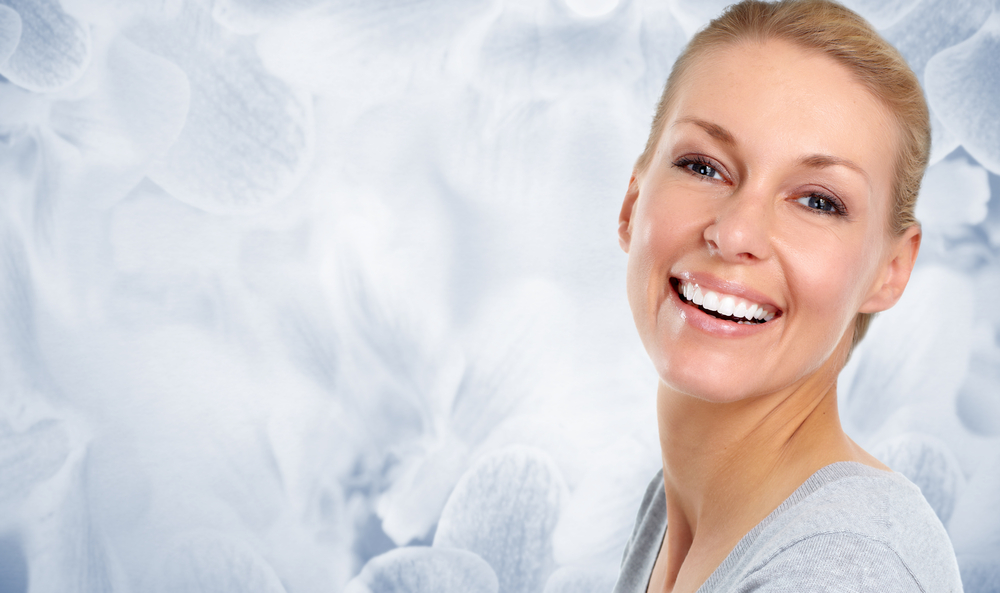
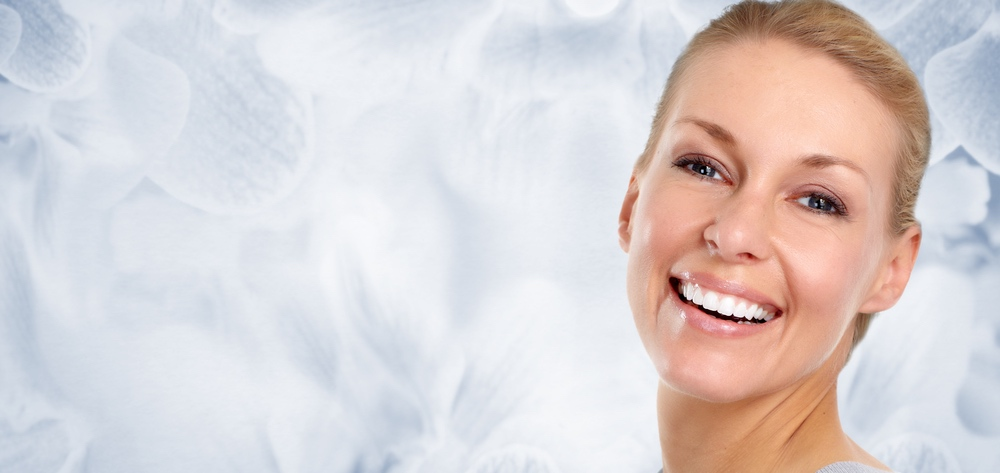
fixed framing of splash image

diff --git a/css/scrolling-nav.css b/css/scrolling-nav.css
@@ -164,11 +164,13 @@ of those sections to manage the look and feel of the site. */
 #facebook-icon {
     text-decoration: none;
 }
+.bufferspace {
+    padding: 50px;
+}
 /* intro section styling */ 
 .splash-section {
     width: 100%;
-    height: 60%;
-    margin-top: 100px;
+    height: 70%;
     text-align: center;
     color: #09814A;
     background: url(imgs/woman.jpg) center center no-repeat;
@@ -188,6 +190,7 @@ of those sections to manage the look and feel of the site. */
     float: left;
     padding: 0px 10px 0px 10px;
     background-color: #FFF;
+
 }
 .splash-section .headers #be-beautiful {
     position: relative;

diff --git a/js/custom-jquery.js b/js/custom-jquery.js
@@ -40,6 +40,7 @@ var main = function () {
 		lastScrollTop = st; 
 	}
 	//Parallax effect for splash page 
+
 	var parallax = $(".splash-section");
 
 	$(document).on("scroll" , function () {
@@ -49,6 +50,7 @@ var main = function () {
 		var currentScroll = $(document).scrollTop(); 
 		parallax.css("background-position" , "0 " + -currentScroll/4 + "px");
 	});
+
 
 	//Our staff menu desktop view functionality 
 	$('.staff-section .desktop .profiles .profile-tabs .profile-tab').click( function (){

diff --git a/index.html b/index.html
@@ -94,8 +94,10 @@
     </nav>
 
 
-
-    <!-- jumbotron Section -->
+    <div class="bufferspace">
+        
+    </div>
+    <!-- splash Section -->
     <section id="splash-section" class="splash-section">
 
         <div class="headers container">
